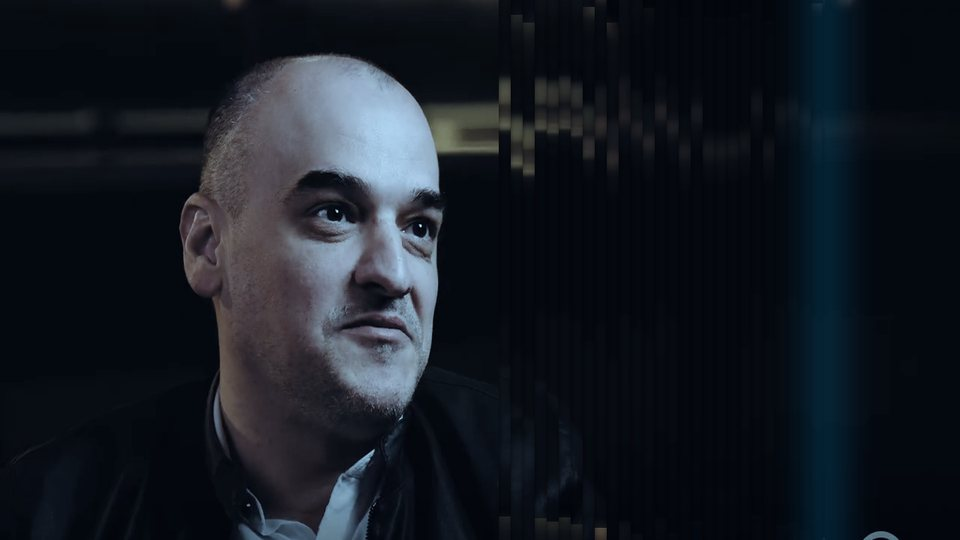
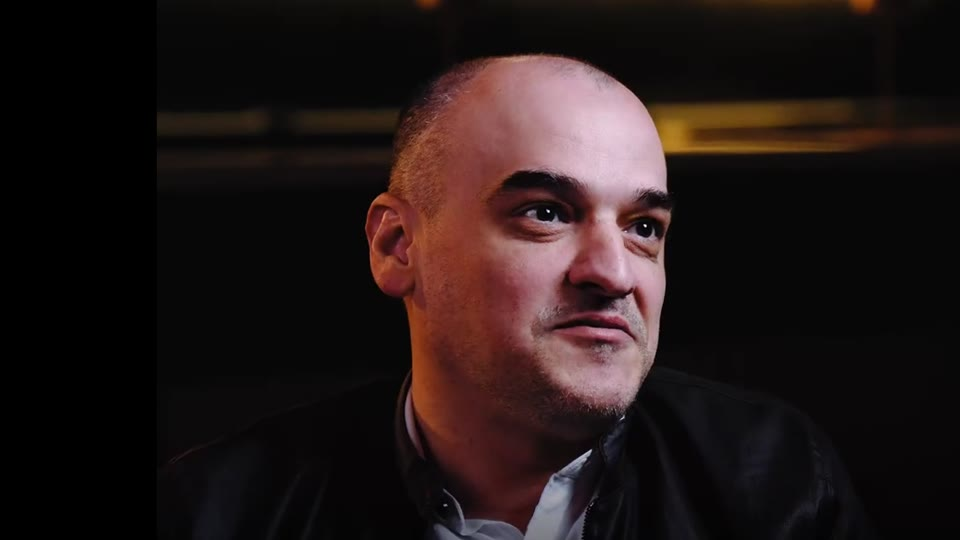
Introduce: histórias com capas em cor natural e degradê preto
Claude-Session: https://claude.ai/code/session_01RXJJZ2ya2rbjx4BbF9JeJm

diff --git a/introduce-teste/index.html b/introduce-teste/index.html
@@ -184,7 +184,7 @@ nav a:hover::after{width:100%}
 .tslider{position:relative}
 .tviewport{overflow:hidden;padding-block:12px}
 .ttrack{display:flex;gap:28px;transition:transform .7s cubic-bezier(.65,0,.25,1)}
-.tslide{flex:0 0 min(1060px,86%);background:var(--gray-950);color:var(--white);border-radius:14px;overflow:hidden;position:relative;display:grid;grid-template-columns:46% 54%;min-height:450px;transition:opacity .6s,filter .6s,transform .6s}
+.tslide{flex:0 0 min(1060px,86%);background:#000;color:var(--white);border-radius:14px;overflow:hidden;position:relative;display:grid;grid-template-columns:46% 54%;min-height:450px;transition:opacity .6s,filter .6s,transform .6s}
 .tslide[aria-hidden="true"]{opacity:.32;filter:blur(2px) grayscale(.6);transform:scale(.96)}
 .tquote{position:relative;z-index:2;padding:var(--s5);display:flex;flex-direction:column;justify-content:center;gap:var(--s3)}
 .tbrand{font-weight:800;font-size:var(--f-lg);letter-spacing:-.02em;display:flex;align-items:center;gap:10px}
@@ -193,11 +193,11 @@ nav a:hover::after{width:100%}
 .tquote blockquote::before{content:'“';position:absolute;top:-22px;left:-6px;font-size:96px;line-height:1;color:var(--green);font-weight:700;opacity:.9}
 .twho strong{display:block;font-size:var(--f-base)}
 .twho span{font-size:var(--f-sm);color:rgba(255,255,255,.65)}
-.tmedia{position:relative;overflow:hidden;background:var(--gray-950)}
+.tmedia{position:relative;overflow:hidden;background:#000}
 .tmedia img,.tmedia video{position:absolute;inset:0;width:100%;height:100%;object-fit:cover}
 .tmedia img{transition:transform .8s}
 .tslide:hover .tmedia img{transform:scale(1.04)}
-.tmedia::before{content:'';position:absolute;inset:0;z-index:1;background:linear-gradient(90deg,#262626 0%,rgba(38,38,38,.35) 30%,transparent 60%);pointer-events:none}
+.tmedia::before{content:'';position:absolute;inset:0;z-index:1;background:linear-gradient(90deg,#000 0%,rgba(0,0,0,.7) 12%,rgba(0,0,0,.15) 28%,transparent 40%);pointer-events:none}
 .tcurve{position:absolute;left:0;top:0;height:100%;width:90px;z-index:2;pointer-events:none}
 .tplay{position:absolute;z-index:3;left:56%;top:50%;transform:translate(-50%,-50%);width:84px;height:84px;border-radius:50%;border:0;background:var(--white);color:var(--gray-900);display:grid;place-items:center;cursor:pointer;transition:transform .25s,background .25s;box-shadow:0 10px 40px rgba(0,0,0,.4)}
 .tplay::before{content:'';position:absolute;inset:-10px;border-radius:50%;border:2px solid rgba(255,255,255,.5);animation:ring 2.2s ease-out infinite}
@@ -406,7 +406,7 @@ footer{background:var(--gray-950);color:var(--white);padding-block:var(--s6) var
   .trust-card{grid-template-columns:1fr;padding:var(--s4) 0 var(--s4) var(--s4)}
   .tslide{grid-template-columns:1fr;flex-basis:88%;min-height:0}
   .tmedia{aspect-ratio:16/9;order:-1}
-  .tmedia::before{background:linear-gradient(0deg,#262626,transparent 50%)}
+  .tmedia::before{background:linear-gradient(0deg,#000 0%,rgba(0,0,0,.4) 30%,transparent 60%)}
   .tcurve{display:none}
   .tplay{left:50%}
   .tquote{padding:var(--s4)}
